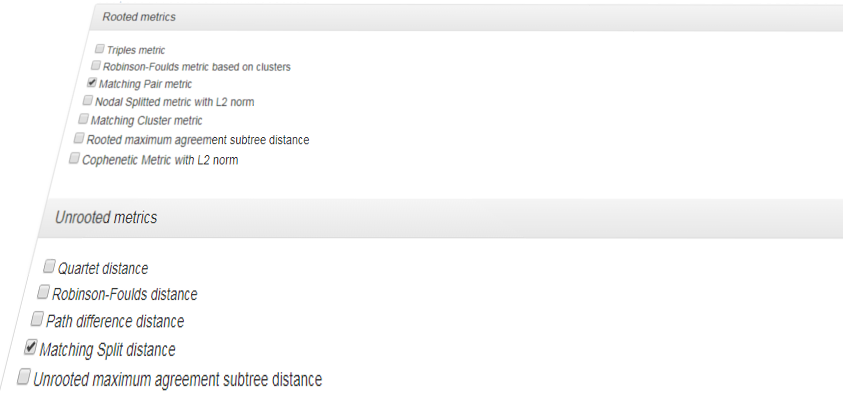
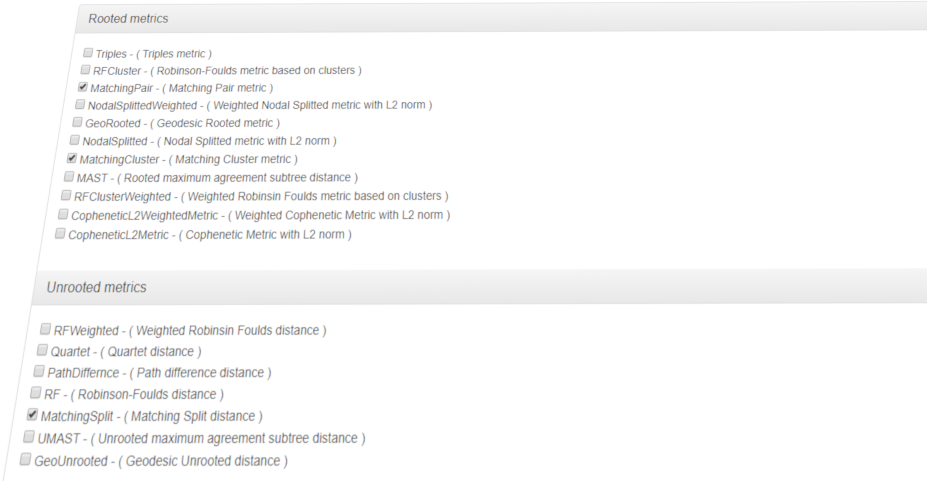
updated descriptions to eighteen metrics

Changed region(s): [[0.0, 0.0893, 0.4935, 0.9826], [0.0925, 0.0298, 0.2159, 0.0596], [0.3701, 0.0596, 0.4318, 0.0893]]

diff --git a/index.html b/index.html
@@ -5,7 +5,7 @@
 
         <meta charset="utf-8">
         <meta name="description" content="Visual TreeCmp home page">
-        <meta name="author" content="co-authored by Damian Bogdanowicz, Krzysztof Giaro, Tomasz Goluch">
+        <meta name="author" content="co-authored by Tomasz Goluch, Damian Bogdanowicz, Krzysztof Giaro">
 
         <title>Visual TreeCmp: Comprehensive Comparison of Phylogenetic Trees on the Web</title>
 
@@ -91,7 +91,7 @@
             <div class="carousel-item text-huge">
               <img class="d-block img-fluid w-100" src="img_WEB/slide-2.png" alt="">
               <div class="carousel-caption d-none d-md-block">
-                <p class="text-shadow text-slide">twelve metrics</p>
+                <p class="text-shadow text-slide">eighteen metrics</p>
 <!--                 <p class="text-shadow">- five for unrooted (Matching Split, Robinson-Foulds, path difference, quartet, MAST)</p>
 <p class="text-shadow">- five for rooted trees (Matching Cluster, Robinson-Foulds, Nodal Splitted with L2 norm, Triples, UMAST)</p> -->
               </div>
@@ -136,25 +136,31 @@
         <h2 class="text-center text-lg text-uppercase my-0">rich collection of available phylogenetic metrics</h2>
         <hr class="divider">
         <!-- <img class="img-fluid float-left mr-4 d-none d-lg-block" src="img_WEB/intro-pic.jpg" alt=""> -->
-        <p>The Visual TreeCmp implements twelve metrics that can be calculated in polynomial time for arbitrary (not only bifurcating) trees.</p>
-      		<p>Five metrics for unrooted trees:</p>
+        <p>The Visual TreeCmp implements eighteen metrics that can be calculated in polynomial time for arbitrary (not only bifurcating) trees.</p>
+          <p>Eleven metrics for rooted trees</p>
+          <ul>
+            <li> Triples metric</li>
+            <li> Robinson-Foulds metric based on clusters</li>
+            <li> Matching Pair metric</li>
+            <li> Nodal Splitted metric with L2 norm</li>
+            <li> Matching Cluster metric</li>
+            <li> Rooted maximum agreement subtree distance</li>
+            <li> Cophenetic metric with L2 norm</li>
+            <li> Robinson-Foulds weighted metric based on clusters</li>
+            <li> Nodal Splitted weighted metric with L2 norm</li>
+            <li> Geodesic rooted distance </li>
+            <li> Cophenetic weighted metric with L2 norm</li>
+          </ul> 
+      		<p>Seven metrics for unrooted trees:</p>
       		<ul>
-      			<li> Matching Split</li>
-      			<li> Robinson-Foulds</li>
-      			<li> Path Difference</li>
-      			<li> Quartet</li>
-      			<li> Unrooted Maximum Agreement Subtree</li>
-      		</ul>
-      	    <p>Seven metrics for rooted trees</p>
-      		<ul>
-      			<li> Matching Cluster</li>
-      			<li> Robinson-Foulds cluster</li>
-      			<li> Nodal Splitted</li>
-      			<li> Triple</li>
-      			<li> Matching Pair</li>
-      			<li> Rooted Maximum Agreement Subtree</li>
-      			<li> Cophenetic</li>    
-      		</ul>  			
+      			<li> Quartet distance</li>
+      			<li> Path difference distance</li>
+      			<li> Robinson-Foulds distance</li>
+      			<li> Matching Split distance</li>
+      			<li> Unrooted maximum agreement subtree distance</li>
+            <li> Robinson-Foulds weighted distance</li>
+            <li> Geodesic unrooted distance</li>
+      		</ul> 			
       </div>
 
       <div class="bg-faded p-4 my-4">
